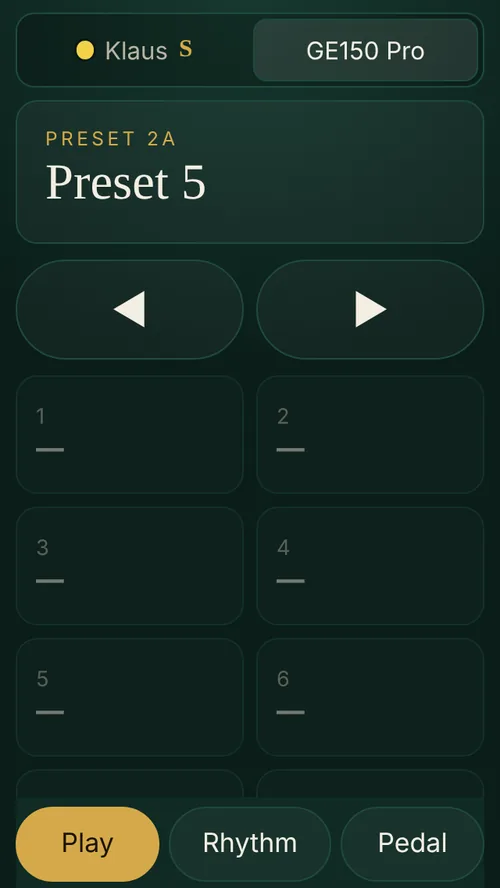
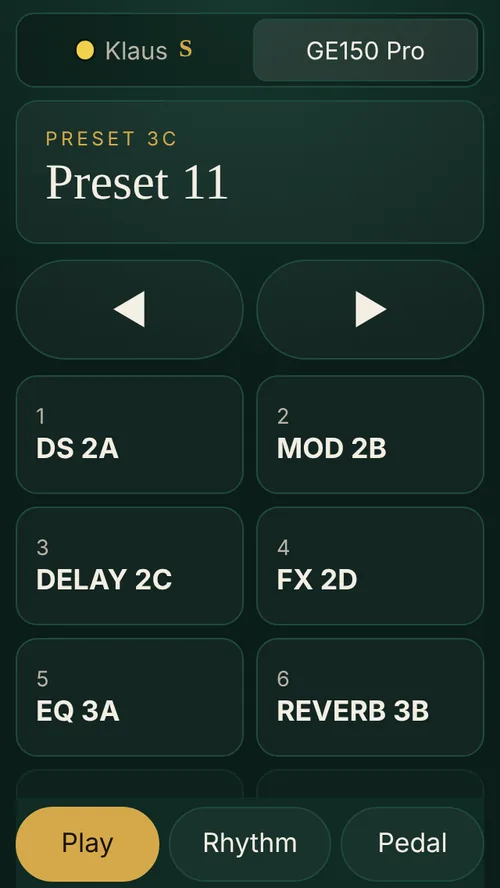
Website: GE150 Pro's phone picture shows saved sounds on the quick slots (D-292)
Claude-Session: https://claude.ai/code/session_01Ew5DowasvzaYcp4A85xZqS

diff --git a/apps/cloud/public/home.html b/apps/cloud/public/home.html
@@ -1084,7 +1084,7 @@ gesture(seat, data) { sling.gesture(seat, data); }</code>
       <div class="show-grid">
         <figure class="dbg-shot rv sling-real" style="--d:.05s">
           <div class="sling-stage">
-            <img class="sl-phone" src="/site/ge150-pro-phone-play.webp" alt="The phone's Play tab: the current preset 2A, buttons for the previous and next preset, and quick slots 1 to 8" loading="lazy" width="500" height="888">
+            <img class="sl-phone" src="/site/ge150-pro-phone-play.webp" alt="The phone's Play tab: the current preset 3C, buttons for the previous and next preset, and quick slots holding saved sounds: DS 2A, MOD 2B, DELAY 2C, FX 2D, EQ 3A, REVERB 3B" loading="lazy" width="500" height="888">
             <img class="sl-board" src="/site/ge150-pro.webp" alt="The board: the pedal's signal chain of nine modules across the top, the faders of the AMP module, and the four presets of bank 2" loading="lazy" width="1600" height="900">
           </div>
           <figcaption>The phone and the board with the same pedal, from the game's browser test with a simulated pedal.</figcaption>

diff --git a/docs/decisions.md b/docs/decisions.md
@@ -2395,4 +2395,4 @@ Klaus asked for the repo to follow kube-setup's conventions (its Obsidian vault 
   card name `klaushofrichter/ge150pro-game`, linked where text can link. The games headline names the guitar pedal. *Implementation (Claude):*
   `home.html` (`solo` flag on a game, the `solo` filter, `ge150` source); the pictures `ge150-pro.webp`,
   `ge150-pro-phone.webp` (Rhythm) and `ge150-pro-phone-play.webp` are screenshots of the game's own browser check with
-  its simulated pedal. Check: `scripts/e2e/website.py` (the Solo filter and the close-up's link).
+  its simulated pedal; the Play tab with six saved sounds on its quick slots ("this one is pretty empty", Klaus). Check: `scripts/e2e/website.py` (the Solo filter and the close-up's link).
